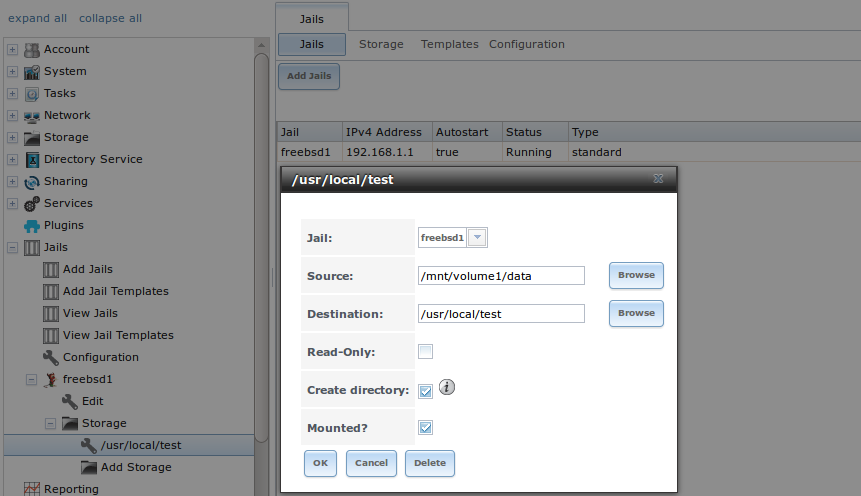
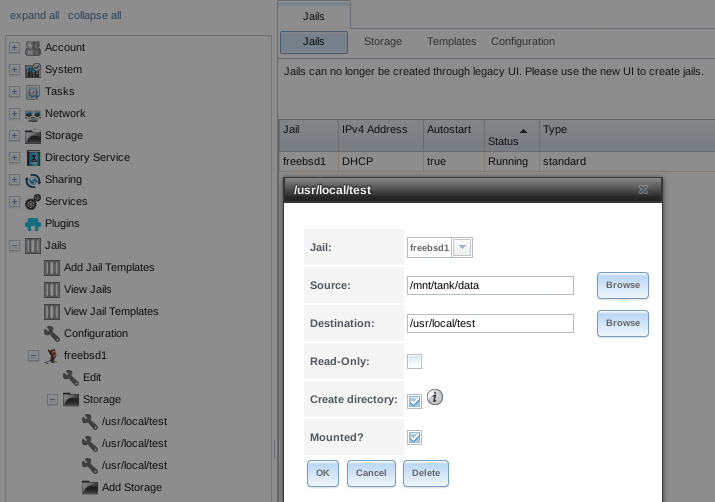
Update 2 jail screenshots and surrounding text.

diff --git a/userguide/jails.rst b/userguide/jails.rst
@@ -529,18 +529,16 @@ means that the directory will automatically be created under the
 specified :guilabel:`Destination` path if the directory does not
 already exist.
 
-After storage has been added or created, it appears in the tree
-under the specified jail. In the example shown in
-:numref:`Figure %s <jail_example_storage_fig>`,
-a dataset named :file:`volume1/data` has been chosen as the
-:guilabel:`Source` as it contains the files stored on the %brand%
-system. When the storage was created, the user browsed to
-:file:`volume1/jails/freebsd1/usr/local` in the
-:guilabel:`Destination` field, then entered *test* as the directory.
-Since this directory did not already exist, it was created, because
-the :guilabel:`Create directory` box was left checked. The resulting
-storage was added to the *freenas1* entry in the tree as
-:file:`/usr/local/test`. The user has clicked this
+After storage has been added or created, it appears in the tree under the
+specified jail. In the example shown in
+:numref:`Figure %s <jail_example_storage_fig>`, a dataset named
+:file:`tank/data` has been chosen as the :guilabel:`Source` as it contains
+the files stored on the %brand% system. When the storage was created, the
+user browsed to :file:`/usr/local/` in the :guilabel:`Destination` field,
+then entered *test* as the directory. Since this directory did not already
+exist, it was created, because the :guilabel:`Create directory` box was
+left checked. The resulting storage was added to the *freebsd1* entry in
+the tree as :file:`/usr/local/test`. The user has clicked this
 :file:`/usr/local/test` entry to access the :guilabel:`Edit` screen.
 
 
